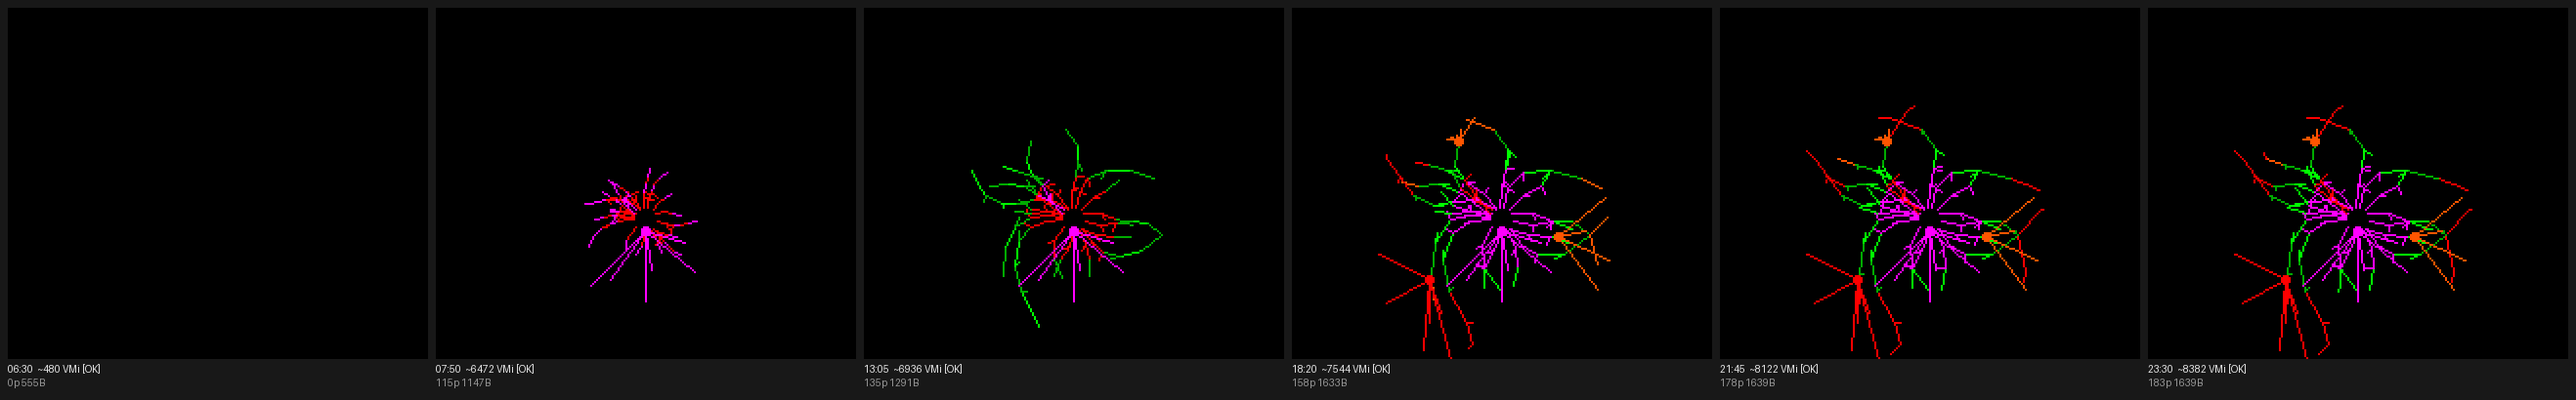
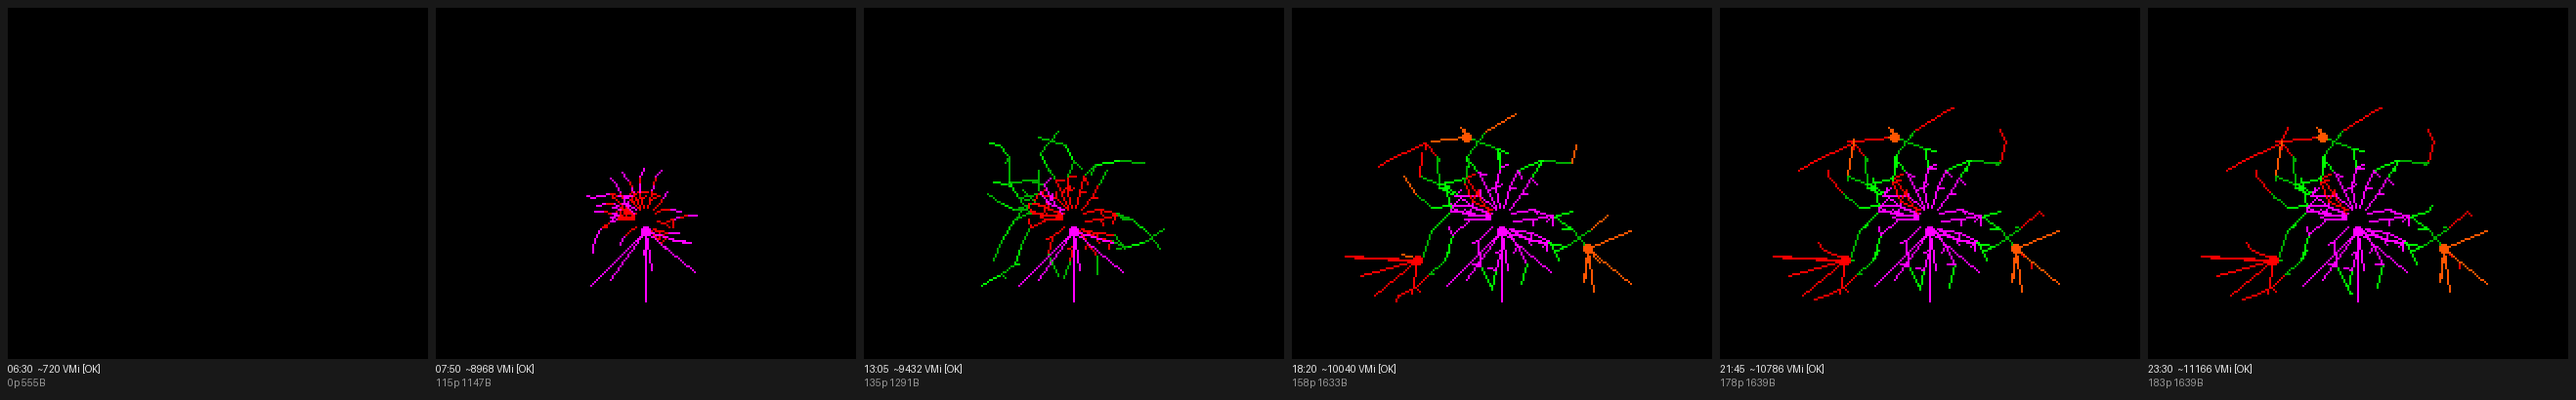
BioBloom: tighter, more textured arms (two-harmonic undulation)
Iterating on the smooth-curve arms: scale the twists down and add fine
texture. The single slow undulation is replaced by a primary swing
(freq 4) plus a finer detail harmonic (freq 7), over a gentler curl
(CURL_RATE 22->15) so the big sweep no longer dominates -- the arms read
as tighter, crinklier textured filaments instead of broad smooth arcs.

Frequencies are kept <= 7 on purpose: even the widest regen stride on a
saturated dish samples them without aliasing back into the jagged
staggers the curve was introduced to remove. The texture changes only
the angle computed per anchor, not the anchor COUNT, so the draw budget
(REGEN_CAP) and the watchdog governor are unchanged; the extra isin per
anchor is offset by the lighter curl math.

Validated (debug builds; no release prg): all BioBloom parity tests pass
(state counts bit-identical, heavy render prims 286 <= 760, save/load
lossless), and testLayerCostProfile bloom render ~12.0ms NoopDc -- same
ballpark as before, well under the ~24.5ms watchdog trip. Sandbox mirror
(biobloom_parametric.py) and the coarse scrub reference updated to match.

Claude-Session: https://claude.ai/code/session_01D2VA7EbZNJHsJsWhWLum2i

diff --git a/sketches/algos/biobloom_parametric.py b/sketches/algos/biobloom_parametric.py
@@ -61,26 +61,35 @@ SEEDS = 9
 BMAX = 16
 PMAX = 41                 # max vertices an arm regenerates to (R0..RMAX by STEP)
 # Arm SHAPE: a smooth per-arm curl (a circular arc, sign+rate from the seed hash)
-# plus one slow undulation, a pure function of (a0, rb, along-arm distance d). The
+# plus TWO undulations (a primary swing + a finer detail harmonic) for a tighter,
+# more TEXTURED wiggle. A pure function of (a0, rb, along-arm distance d). The
 # heading is smooth in d, so coarse regen samples the SAME curve -- it cannot inject
-# the jagged wander the old per-anchor AMP*ws random walk did. Mirrors BioBloom.mc.
-CURL_RATE = 22
-CURL_VAR = 12
+# the jagged wander the old per-anchor AMP*ws random walk did. The frequencies stay
+# low enough that the widest stride on a saturated dish samples them without
+# aliasing back into jaggedness. Mirrors BioBloom.mc.
+CURL_RATE = 15
+CURL_VAR = 9
 CURL_DIV = 64
-UND_SW = 14
-UND_FR = 3
+UND1_SW = 9
+UND1_FR = 4
+UND2_SW = 5
+UND2_FR = 7
 
 
 def head(a0, rb, d):
-    """Smooth arm heading at along-arm distance d (px). Undulation zeroed at d==0 so
-    the arm leaves the centre radially (at a0) then curves. Mirrors BioBloom.mc."""
+    """Smooth arm heading at along-arm distance d (px). Both undulations zeroed at
+    d==0 so the arm leaves the centre radially (at a0) then twists. Mirrors
+    BioBloom.mc."""
     h = hash16(a0, rb, 2)
     rate = CURL_RATE + imod(h, CURL_VAR)
     sign = 1 if (h & 1) else -1
     ph = imod(hash16(a0, 7, 3), 256)
-    und0 = isin(ph)
+    ph2 = imod(hash16(a0, 11, 5), 256)
+    u0 = isin(ph)
+    u0b = isin(ph2)
     curl = sign * idiv(rate * d, CURL_DIV)
-    und = idiv(UND_SW * (isin(imod(d * UND_FR + ph, 256)) - und0), 127)
+    und = (idiv(UND1_SW * (isin(imod(d * UND1_FR + ph, 256)) - u0), 127)
+           + idiv(UND2_SW * (isin(imod(d * UND2_FR + ph2, 256)) - u0b), 127))
     return imod(a0 + curl + und, 256)
 
 ACTIVE = 4
